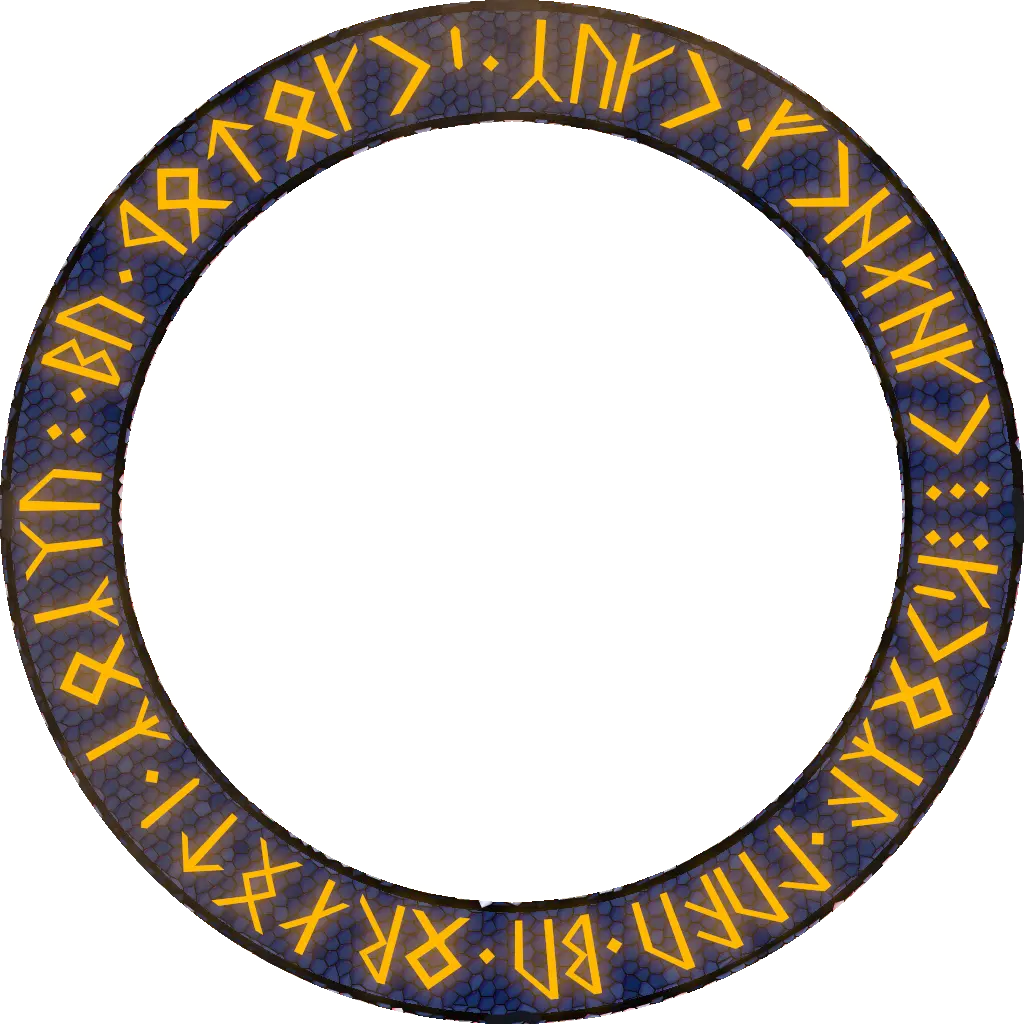
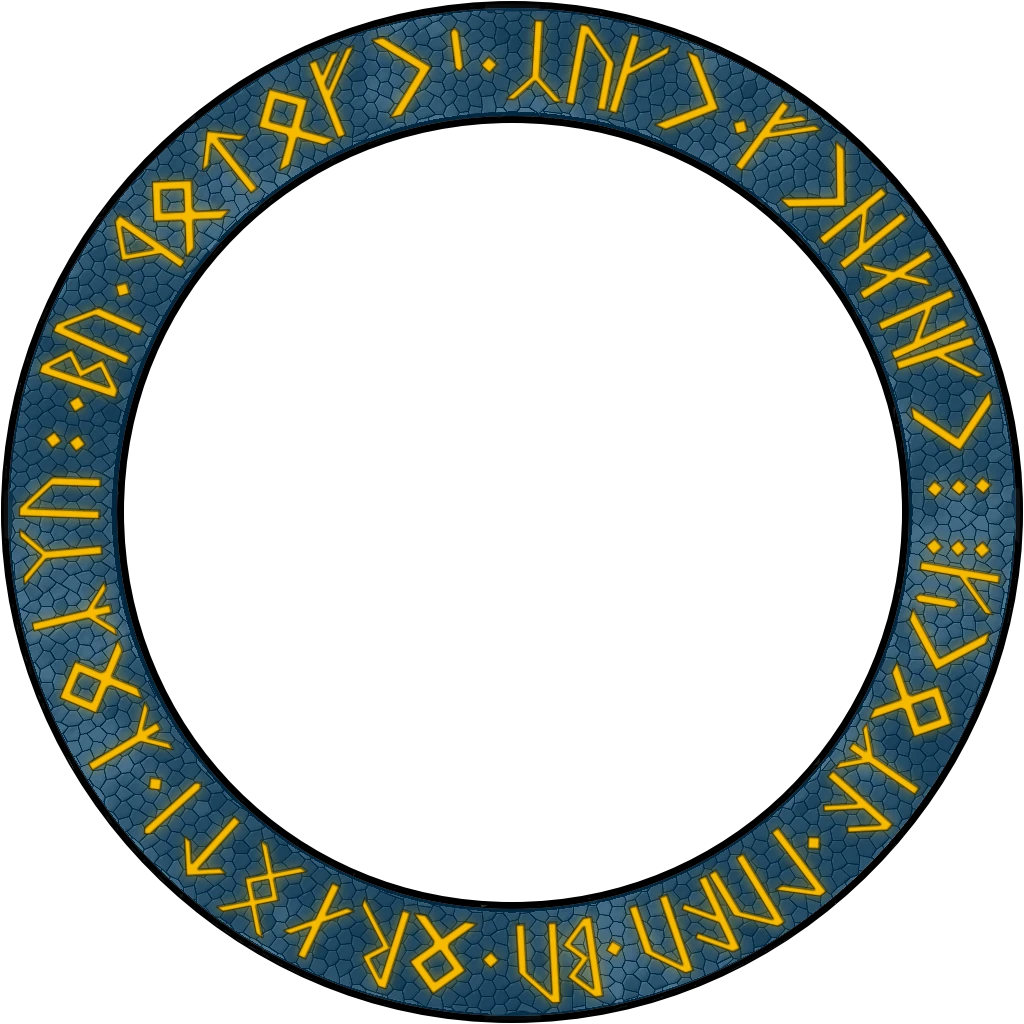
Mask runes frames, add teal/blue variant, trim two Drehatlas frames
Claude-Session: https://claude.ai/code/session_015KtoCYtJ6bxTrVyVNCnSig

Changed region(s): [[0.0, 0.0, 1.0, 1.0]]

diff --git a/CHANGELOG.md b/CHANGELOG.md
@@ -5,8 +5,9 @@
 [Full Changelog](https://github.com/yorkshirelandscape/token_frames/compare/1.8.0...1.9.0)
 - Removed AI-generated token frames to comply with Foundry's [AI Content Policy](https://foundryvtt.com/article/ai-policy/)
 - Replaced 5 of volfied's frames with hand-recreated versions
-- Added a new hand-drawn runes frame set from volfied
+- Added a hand-drawn runes frame set from volfied, with a 13th (teal/blue) variant
 - Removed Geekswordsman's frames (AI-assisted)
+- Trimmed a couple of low-quality Drehatlas frames
 
 ## [1.8.0](https://github.com/yorkshirelandscape/token_frames/tree/1.8.0)
 
